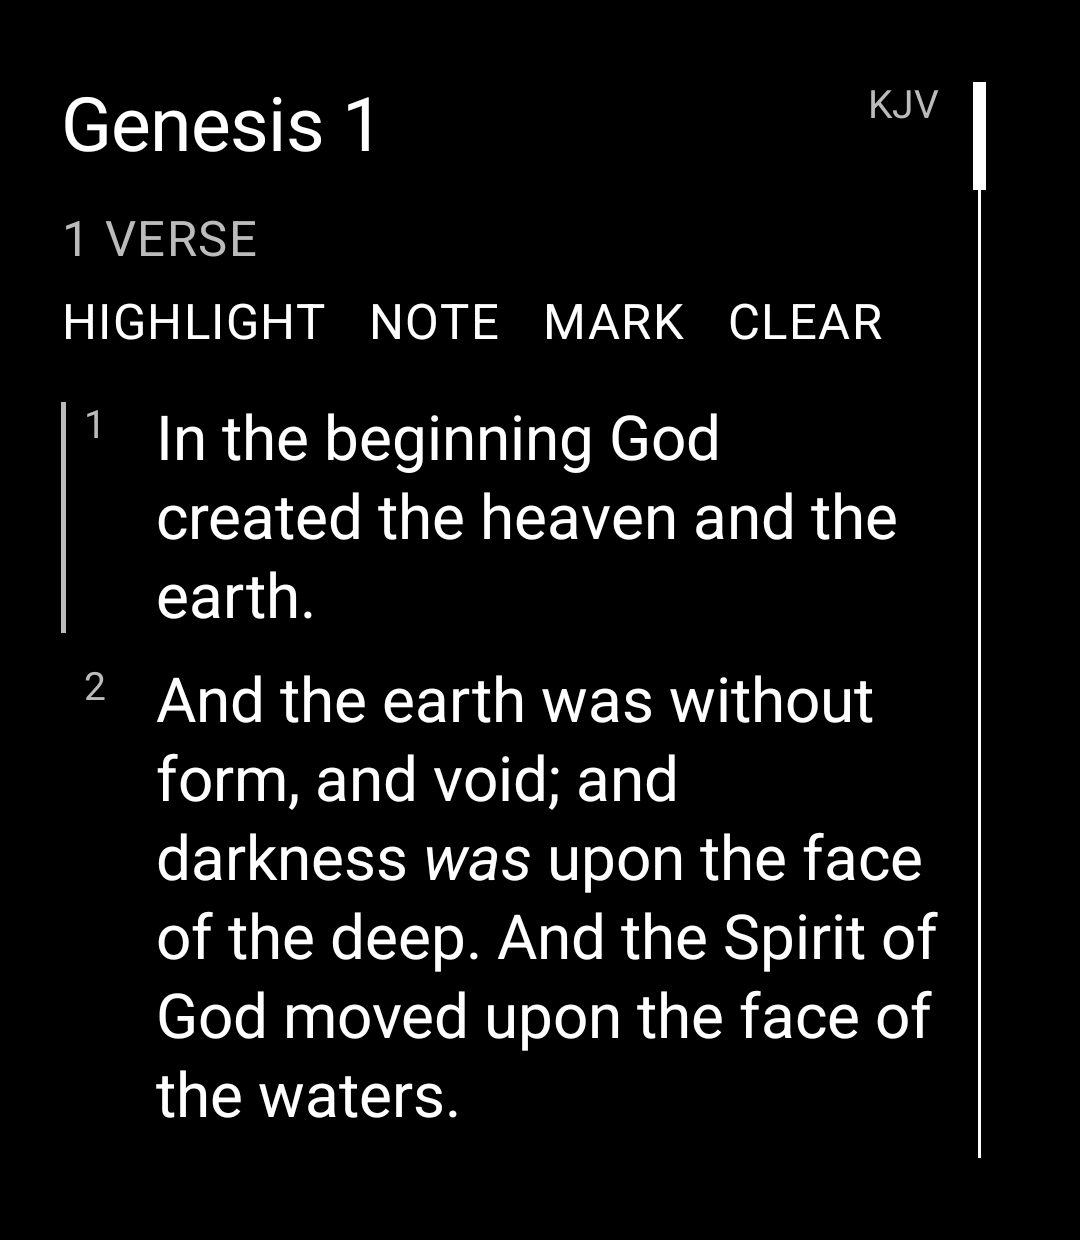
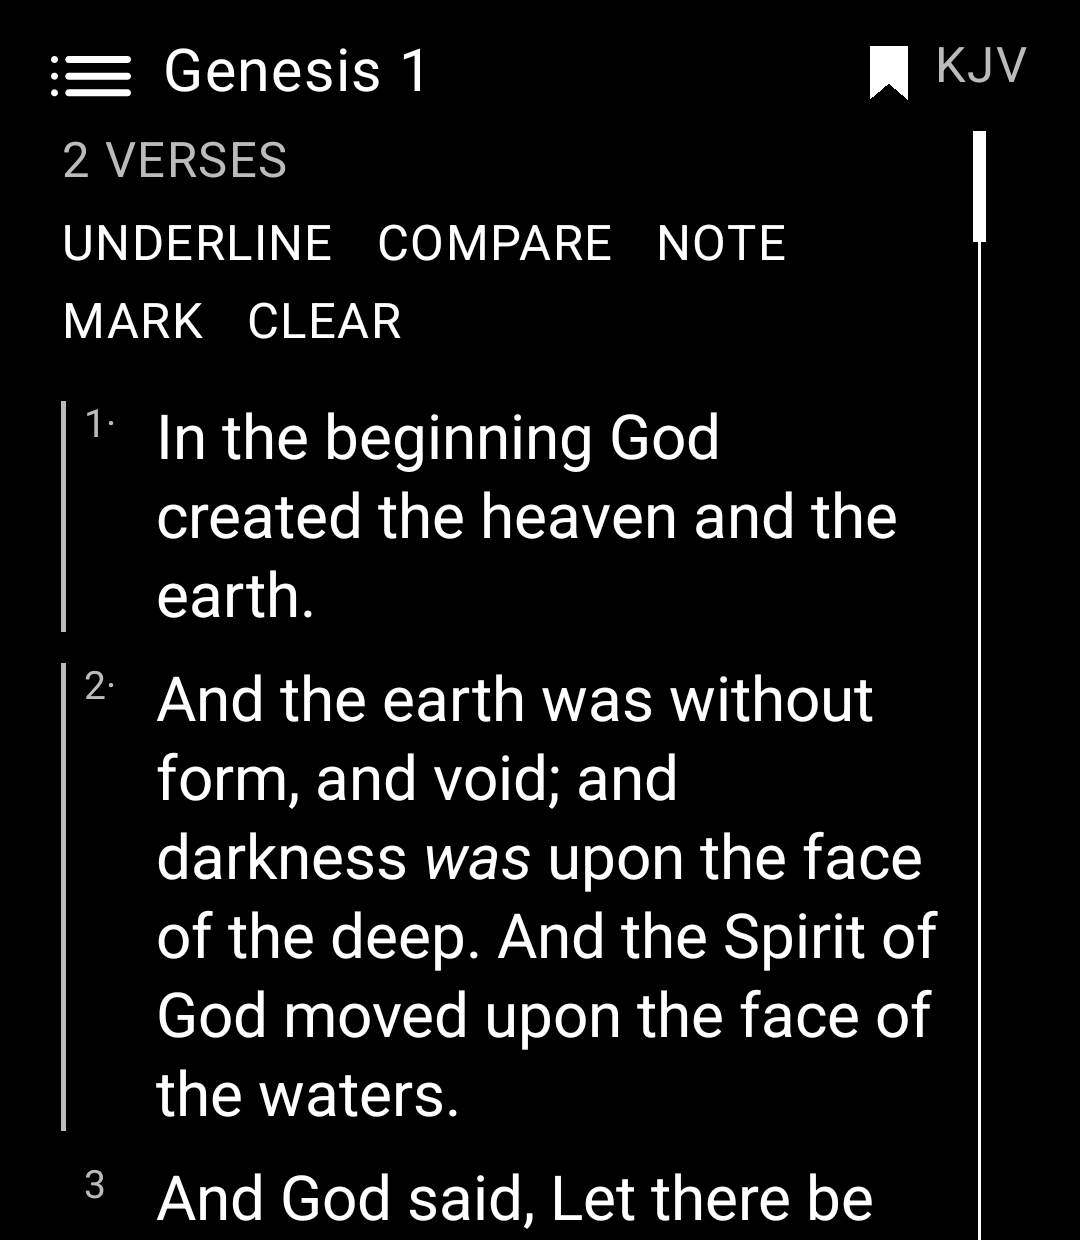
Reshoot the README screenshots against the finished app
The old shots predated the header restructure: no menu icon, no bookmark
ribbon, and highlights still drawn as a margin bar. Nine new ones, all from
the current release build, now cover the menu, the note editor, the notes
list and Compare alongside the four that existed.

The prose had drifted with them. It described a SAVED screen that no longer
exists, called underlines highlights, and said state shows as a margin bar -
which is the pending selection, not a highlight.

diff --git a/README.md b/README.md
@@ -8,13 +8,17 @@ The King James Version ships inside the app: all 66 books, 31,102 verses, tagged
 Strong's numbers, with the full Hebrew and Greek lexicon and a complete concordance. It
 works with the radio off. No account, no key, no network.
 
-| Reading | Word study | Selection |
+| Reading | Selecting verses | Word study |
 |---|---|---|
-| ![Reading Genesis 1](docs/screenshots/reading.png) | ![Strong's word study](docs/screenshots/word-study.png) | ![Selecting a verse](docs/screenshots/selection.png) |
+| ![Genesis 1, two verses underlined and annotated, the chapter flagged](docs/screenshots/reading.png) | ![Two verses selected, showing the underline, compare, note, mark and clear actions](docs/screenshots/selection.png) | ![Strong's entry for H7225, with the Hebrew, its transliteration and the lexicon gloss](docs/screenshots/word-study.png) |
 
-| Books | Settings |
-|---|---|
-| ![Book picker](docs/screenshots/books.png) | ![Settings](docs/screenshots/settings.png) |
+| Menu | Comparing translations | Notes |
+|---|---|---|
+| ![The menu, with live counts beside recents, bookmarks, notes and highlights](docs/screenshots/menu.png) | ![Genesis 1:1 in the KJV, NLT, CSB and NKJV at once](docs/screenshots/compare.png) | ![One note listed against the whole passage it was written on](docs/screenshots/notes.png) |
+
+| Books | Writing a note | Settings |
+|---|---|---|
+| ![The book picker, Old Testament first](docs/screenshots/books.png) | ![The note editor, headed with the verse range it will be saved against](docs/screenshots/note.png) | ![Settings, showing which publishers have a key saved](docs/screenshots/settings.png) |
 
 ---
 
@@ -23,7 +27,11 @@ works with the radio off. No account, no key, no network.
 ### Reading
 
 - **The whole KJV offline.** 66 books, 31,102 verses bundled in the app.
-- **Book and chapter picker** — tap the chapter title at the top left.
+- **Book and chapter picker** — tap the chapter title in the header.
+- **Everything that is not reading lives behind one icon** — the menu, top left of the
+  header, holds books, recents, bookmarks, notes, highlights and settings, which is what
+  lets the reader itself carry nothing but the text.
+- **It reopens where you left off**, in the translation you were reading.
 - **Chapter navigation that names its destination.** The bottom of Genesis 1 offers
   "Genesis 2", not "NEXT". At the end of a book it tells you which book comes next.
 - **Turning the page starts at the top** of the new chapter.
@@ -49,13 +57,17 @@ concordance of 291,919 verse references. All of it on the device.
 ### Saving
 
 - **Tap a verse to select it**, keep tapping to add more, then act on the whole selection.
-- **Highlight**, **bookmark**, and **note** — all stored on the phone and kept across
-  restarts.
-- Because the screen is monochrome, state shows as a bar in the left margin: bright for a
-  highlight, dim for a pending selection. A `*` on the verse number marks a bookmark, a
-  `·` marks a note.
-- **SAVED** lists everything you have kept, in canonical order, grouped into notes,
-  highlights and bookmarks. Tap any entry to jump to it.
+- **UNDERLINE**, **MARK** and **NOTE** apply to every verse you selected. One note written
+  across a passage is one note, listed once as `Genesis 1:1-2`, not the same sentence
+  repeated against each verse.
+- **Underlining and marking leave the selection in place**, so a passage can be underlined
+  and then annotated without picking the same verses out twice. NOTE and CLEAR end it.
+- **Flag the whole chapter** from the ribbon in the header.
+- Because the screen is monochrome, state is shown in the text rather than in colour: a
+  highlight is a real underline, a pending selection is a bar in the left margin, and on
+  the verse number a `*` marks a bookmark and a `·` marks a note.
+- **The menu lists everything you have kept** — recents, bookmarks, notes and highlights,
+  each with a live count. Tap any entry to jump to it.
 
 Nothing is uploaded anywhere. There is no account and no sync.
 
